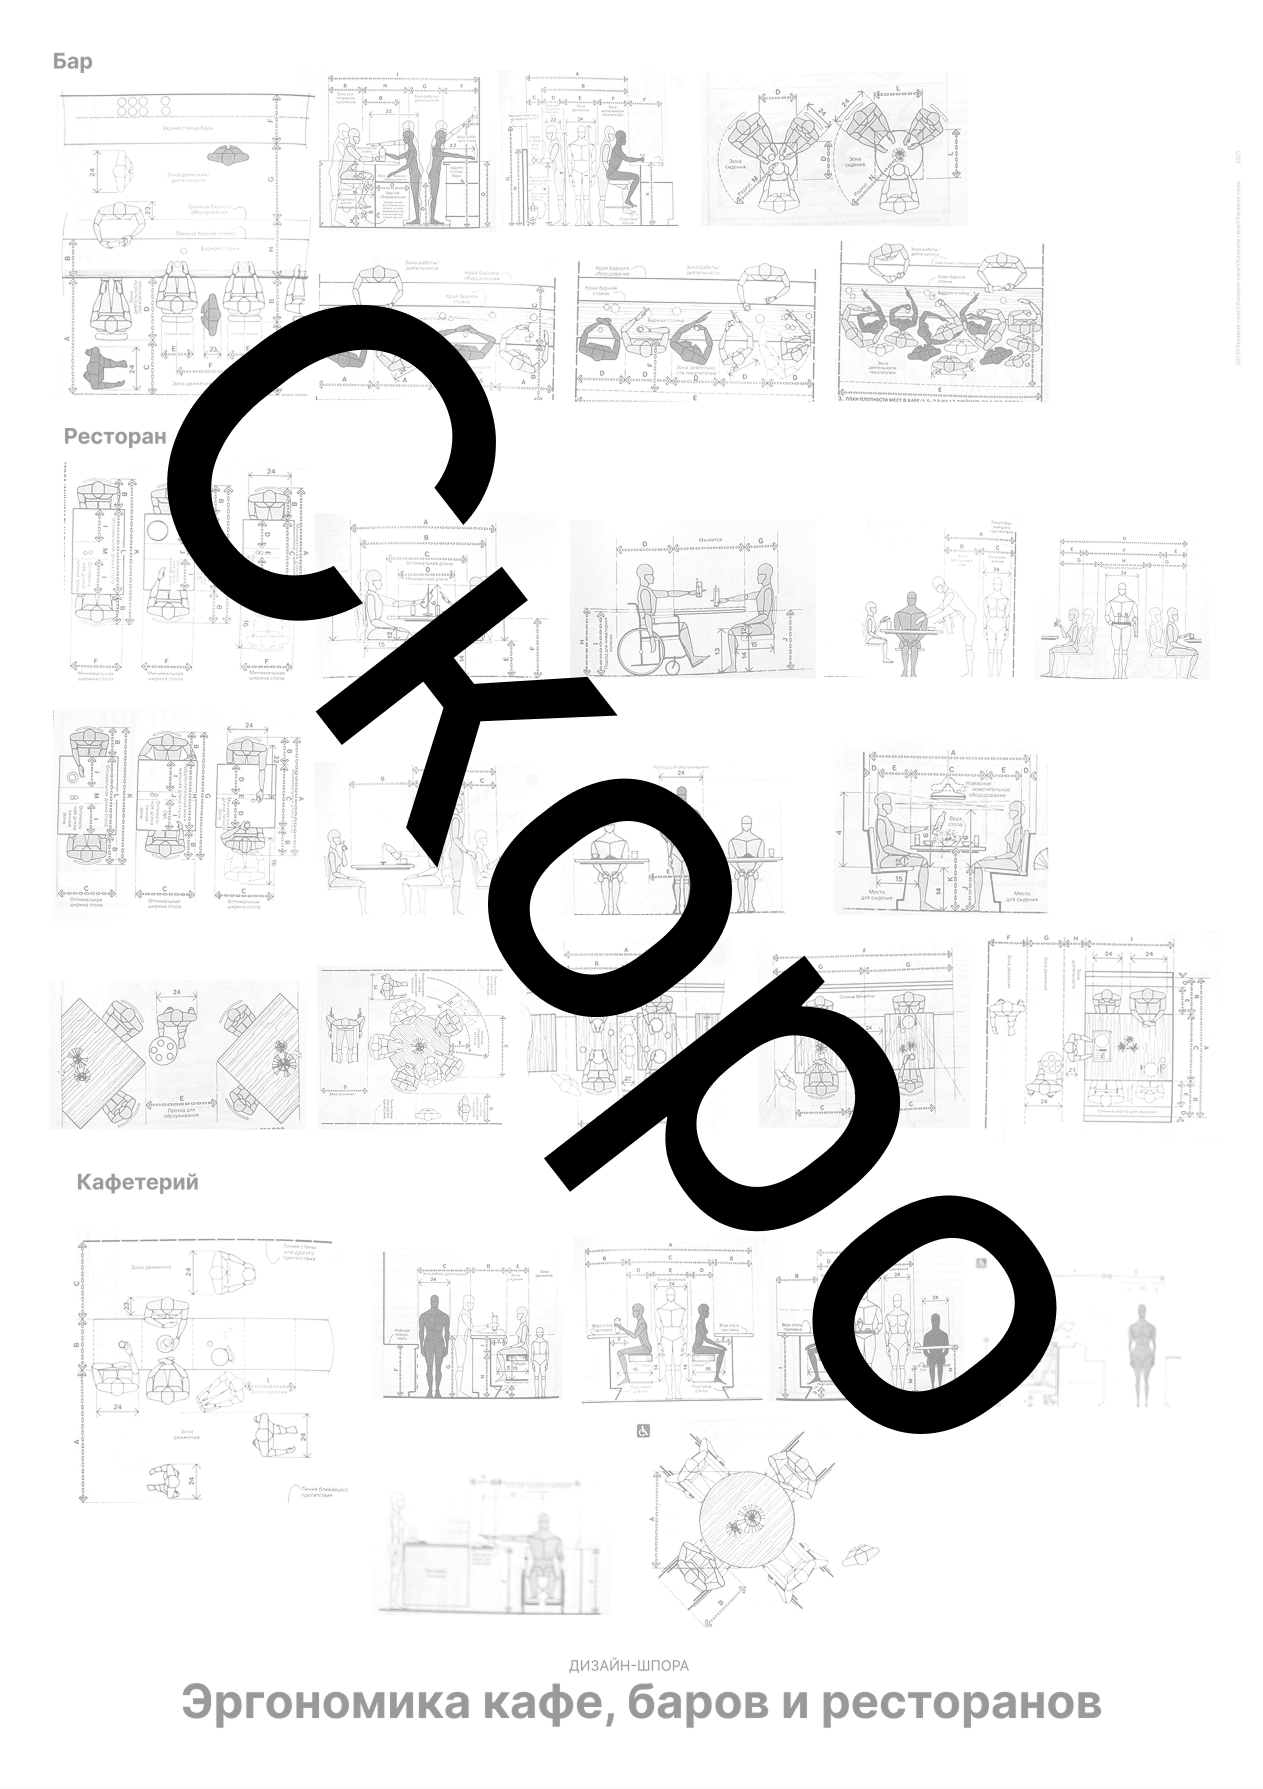
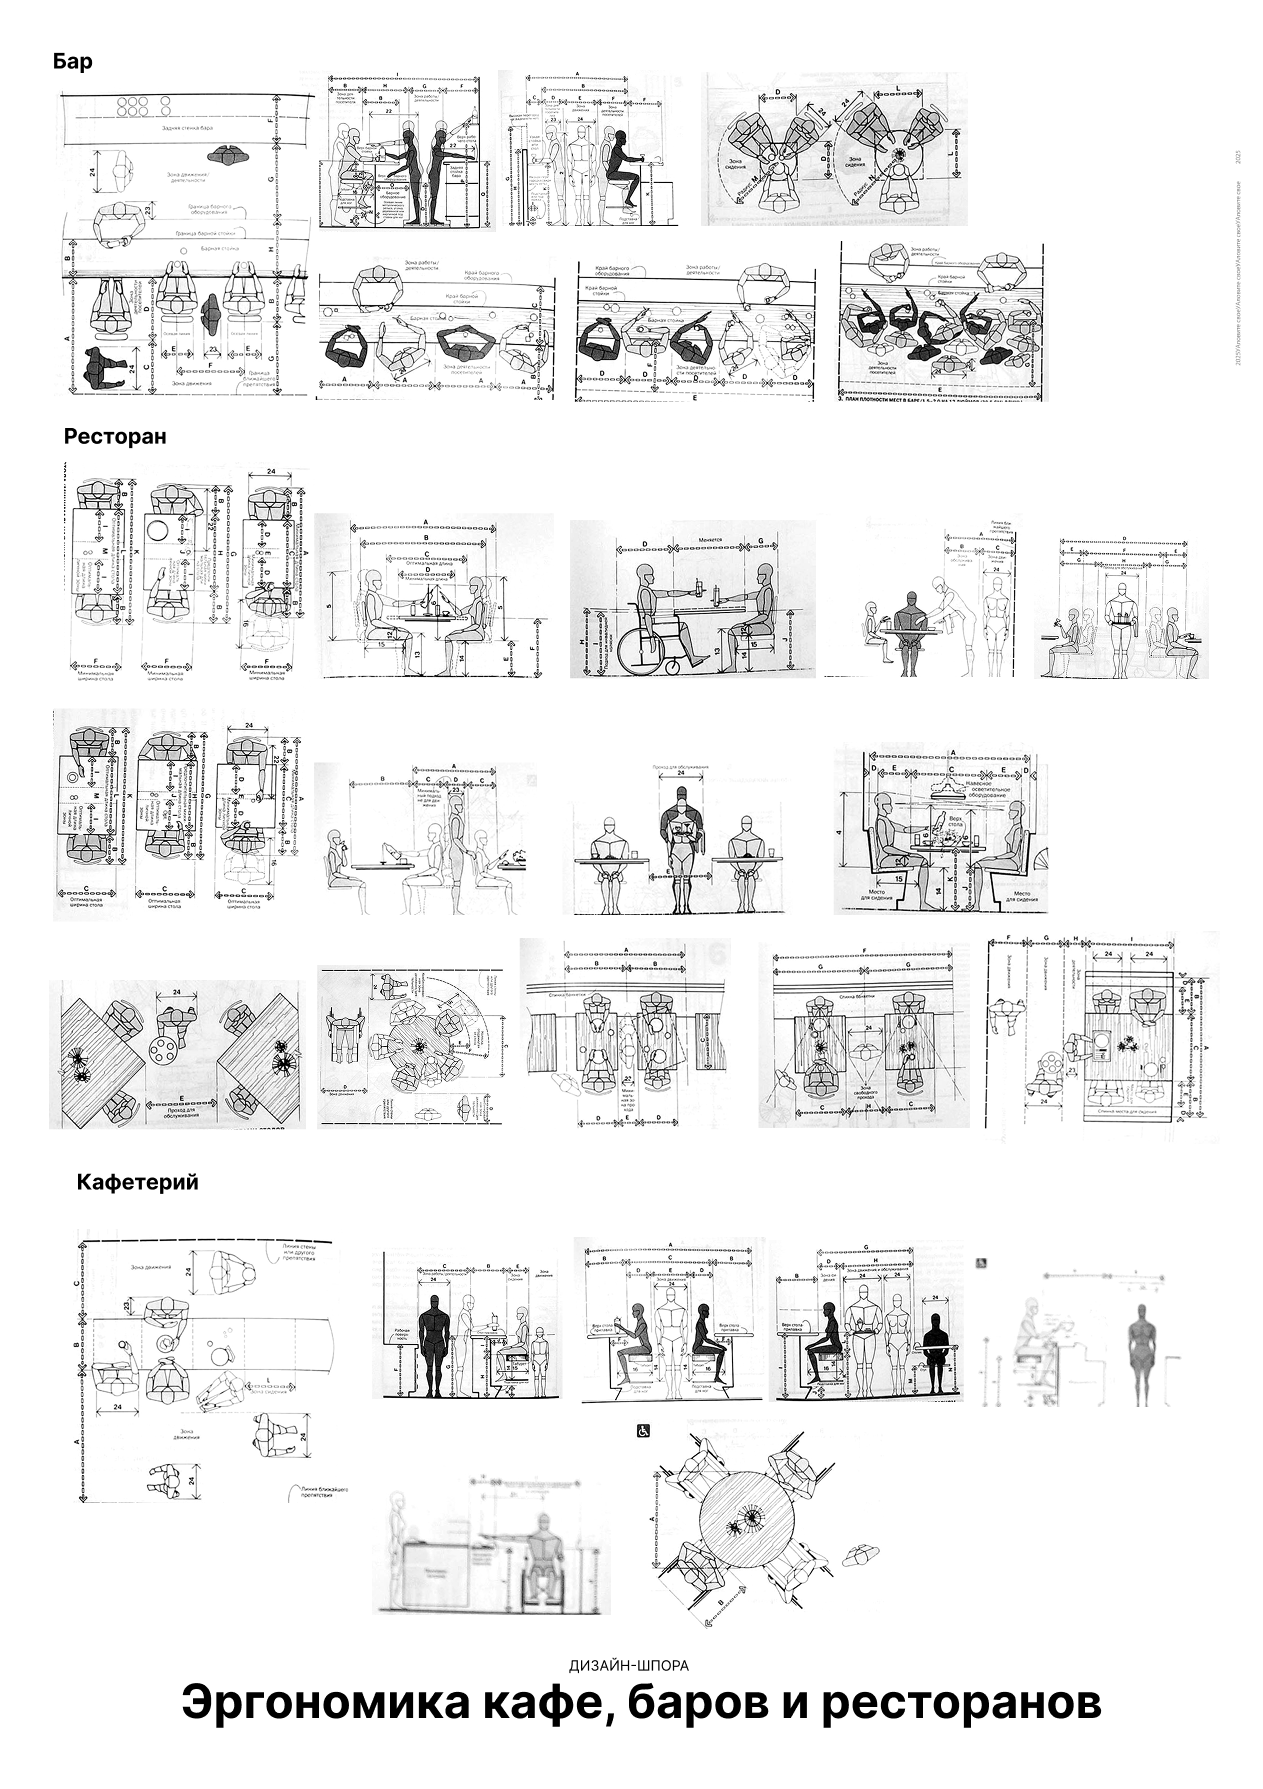
2 columns

diff --git a/index.html b/index.html
@@ -26,19 +26,25 @@
         <div class="posters-item-container">
             <div class="posters-item">
                 <div class="posters-item_img"><img src="img/home.png" alt=""></div>
-                <p class="columnTxt"><b>Дома и квартиры</b><br>Гостиная, спальня, кухня, столовая, ванная комната.</p>
+                <p class="columnTxt"><b>Дома и квартиры</b><br>Гостиная, спальня, ванная комната.</p>
                 <button>Купить за 1200 ₽</button>   
             </div>
+
+            <div class="posters-item">
+                <div class="posters-item_img"><img src="img/home2.png" alt=""></div>
+                <p class="columnTxt"><b>Дома и квартиры</b><br>Кухни и столовые.</p>
+                <button>Купить за 1200 ₽</button>   
+            </div>    
 
             <div class="posters-item">
                 <div class="posters-item_img"><img src="img/office.png" alt=""></div> 
-                <p class="columnTxt"><b>Офисы</b><br>Кабинеты и опенспейсы, приёмная, переговорная и кофепоинт.</p>
+                <p class="columnTxt"><b>Офисы</b><br>Приемная, кабинет, рабочее место и переговорная</p>
                 <button>Купить за 1200 ₽</button>   
             </div>
 
             <div class="posters-item">
-                <div class="posters-item_img"><img src="img/rest.png" alt=""></div>
-                <p class="columnTxt"><b>Кафе, бары и рестораны</b><br> Барная стойка, столики и стулья для гостей, туалет и гардероб.</p>
+                <div class="posters-item_img"><p class="tag">Скоро</p><img src="img/rest.png" class="disabled-img" alt=""></div>
+                <p class="columnTxt"><b>Кафе, бары и рестораны</b><br> Барная стойка, столики и стулья для гостей.</p>
                 <button  class="disabled">Купить за 1200 ₽</button>   
             </div>
         </div>

diff --git a/styles/styles.css b/styles/styles.css
@@ -289,6 +289,26 @@ h2 {
   background-color: oklch(var(--link-color));
 }
 
+.disabled-img {
+  filter: opacity(0.5);
+}
+
+.posters-item_img {
+  position: relative;
+}
+
+.tag {
+  position: absolute;
+  bottom: 50%;
+  left: 50%;
+  transform: translateX(-50%) translateY(-50%);
+  margin-bottom: 0 !important;
+  padding: 4px 8px 6px 8px;
+  background-color: #000;
+  border-radius: 0;
+  z-index: 100;
+}
+
 .promo {
   margin-top: 3rem;
   margin-bottom: 2rem;
@@ -384,7 +404,7 @@ button:hover {
   display: flex;
   flex-direction: column;
   align-items: flex-start;
-  flex: 1;
+  width: calc(50% - 1rem);
 }
 .posters-item_img {
   margin-bottom: 1.2rem;
@@ -392,7 +412,9 @@ button:hover {
 .posters-item-container {
   display: flex;
   gap: 2rem;
+  row-gap: clamp(3.75rem, 3.5322580645rem + 0.9677419355vw, 4.5rem);
   flex-direction: row;
+  flex-wrap: wrap;
   margin-bottom: 3rem;
 }
 @media (width <= 53.81125rem) {

diff --git a/styles/_global.scss b/styles/_global.scss
@@ -23,6 +23,26 @@ h2 {
     }
 }
 
+.disabled-img {
+    filter: opacity(0.5);
+}
+
+.posters-item_img {
+    position: relative;
+}
+
+.tag {
+    position: absolute;
+    bottom: 50%;
+    left: 50%;
+    transform: translateX(-50%) translateY(-50%);
+    margin-bottom: 0 !important;
+    padding: 4px 8px 6px 8px;
+    background-color: #000;
+    border-radius: 0;
+    z-index: 100;
+}
+
 .promo {
     margin-top: 3rem;
     // display: flex;
@@ -127,7 +147,8 @@ button {
     display: flex;
     flex-direction: column;
     align-items: flex-start;
-    flex: 1;
+    width: calc(50% - 1rem);
+    
 
     &_img {
         margin-bottom: 1.2rem;
@@ -137,7 +158,9 @@ button {
     &-container {
         display: flex;
         gap: 2rem;
+        row-gap: #{fluid(72, 60)};
         flex-direction: row;
+        flex-wrap: wrap;
         margin-bottom: 3rem;
 
         @include middleSm {
